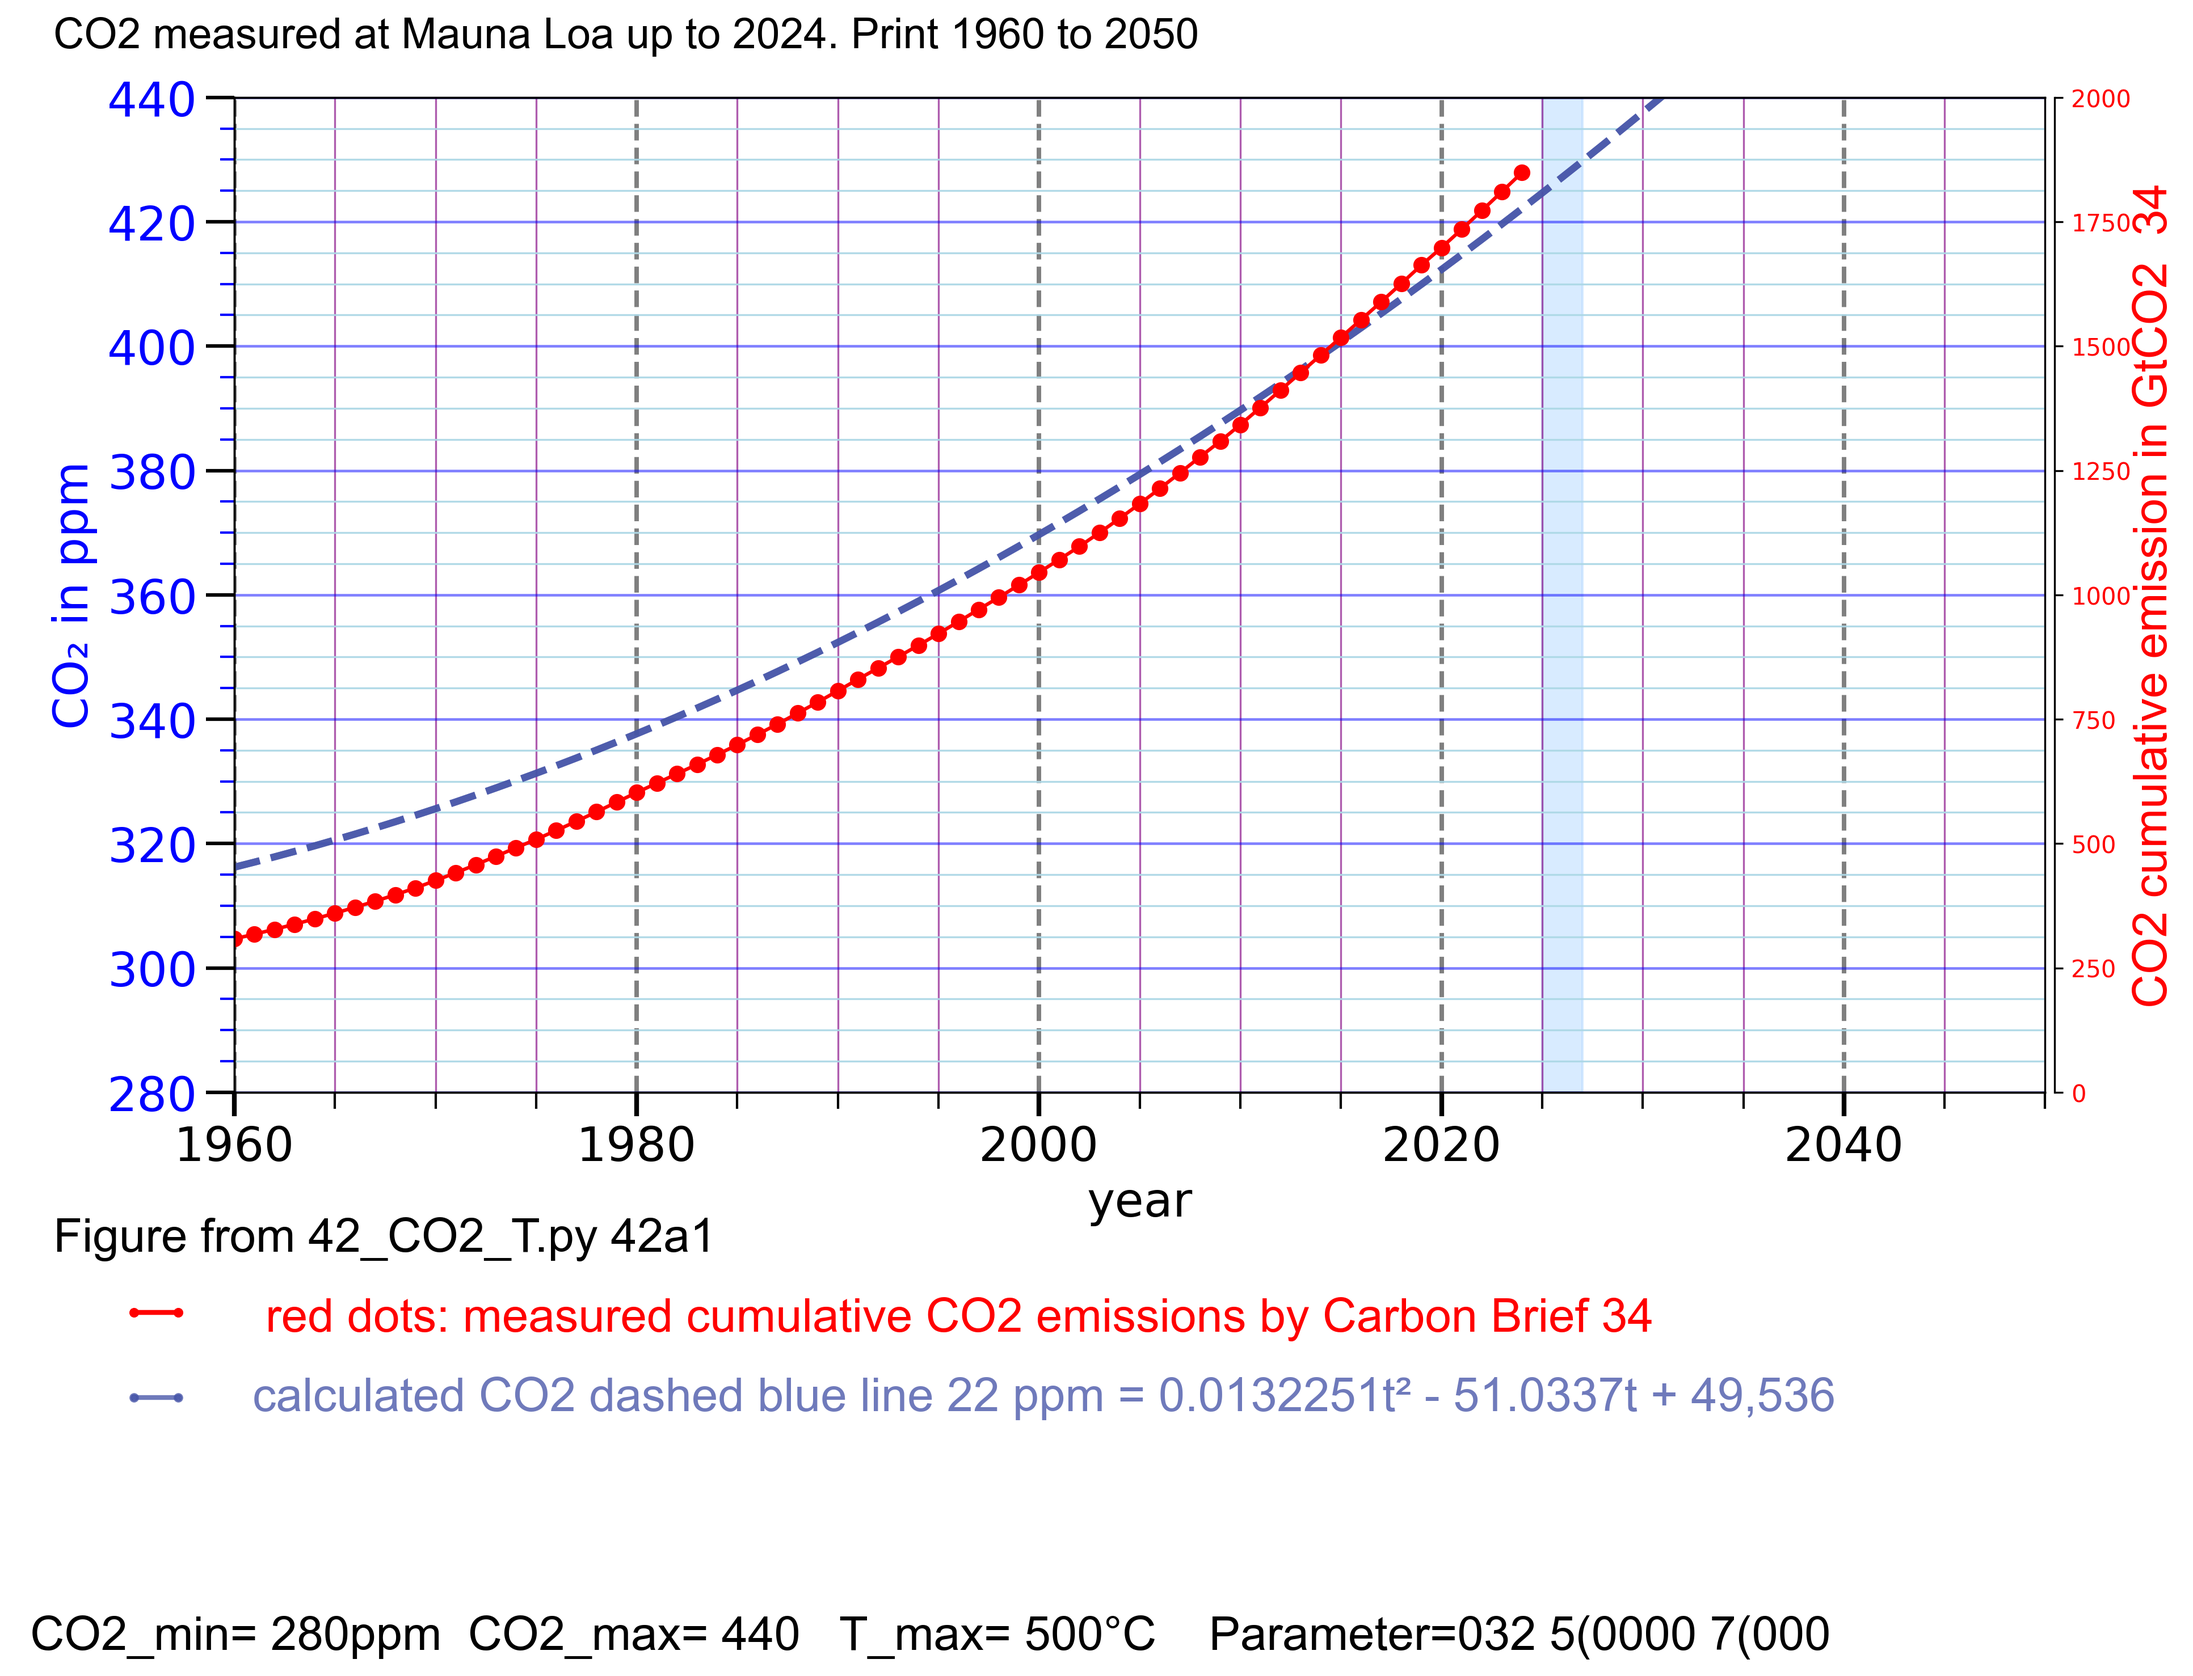
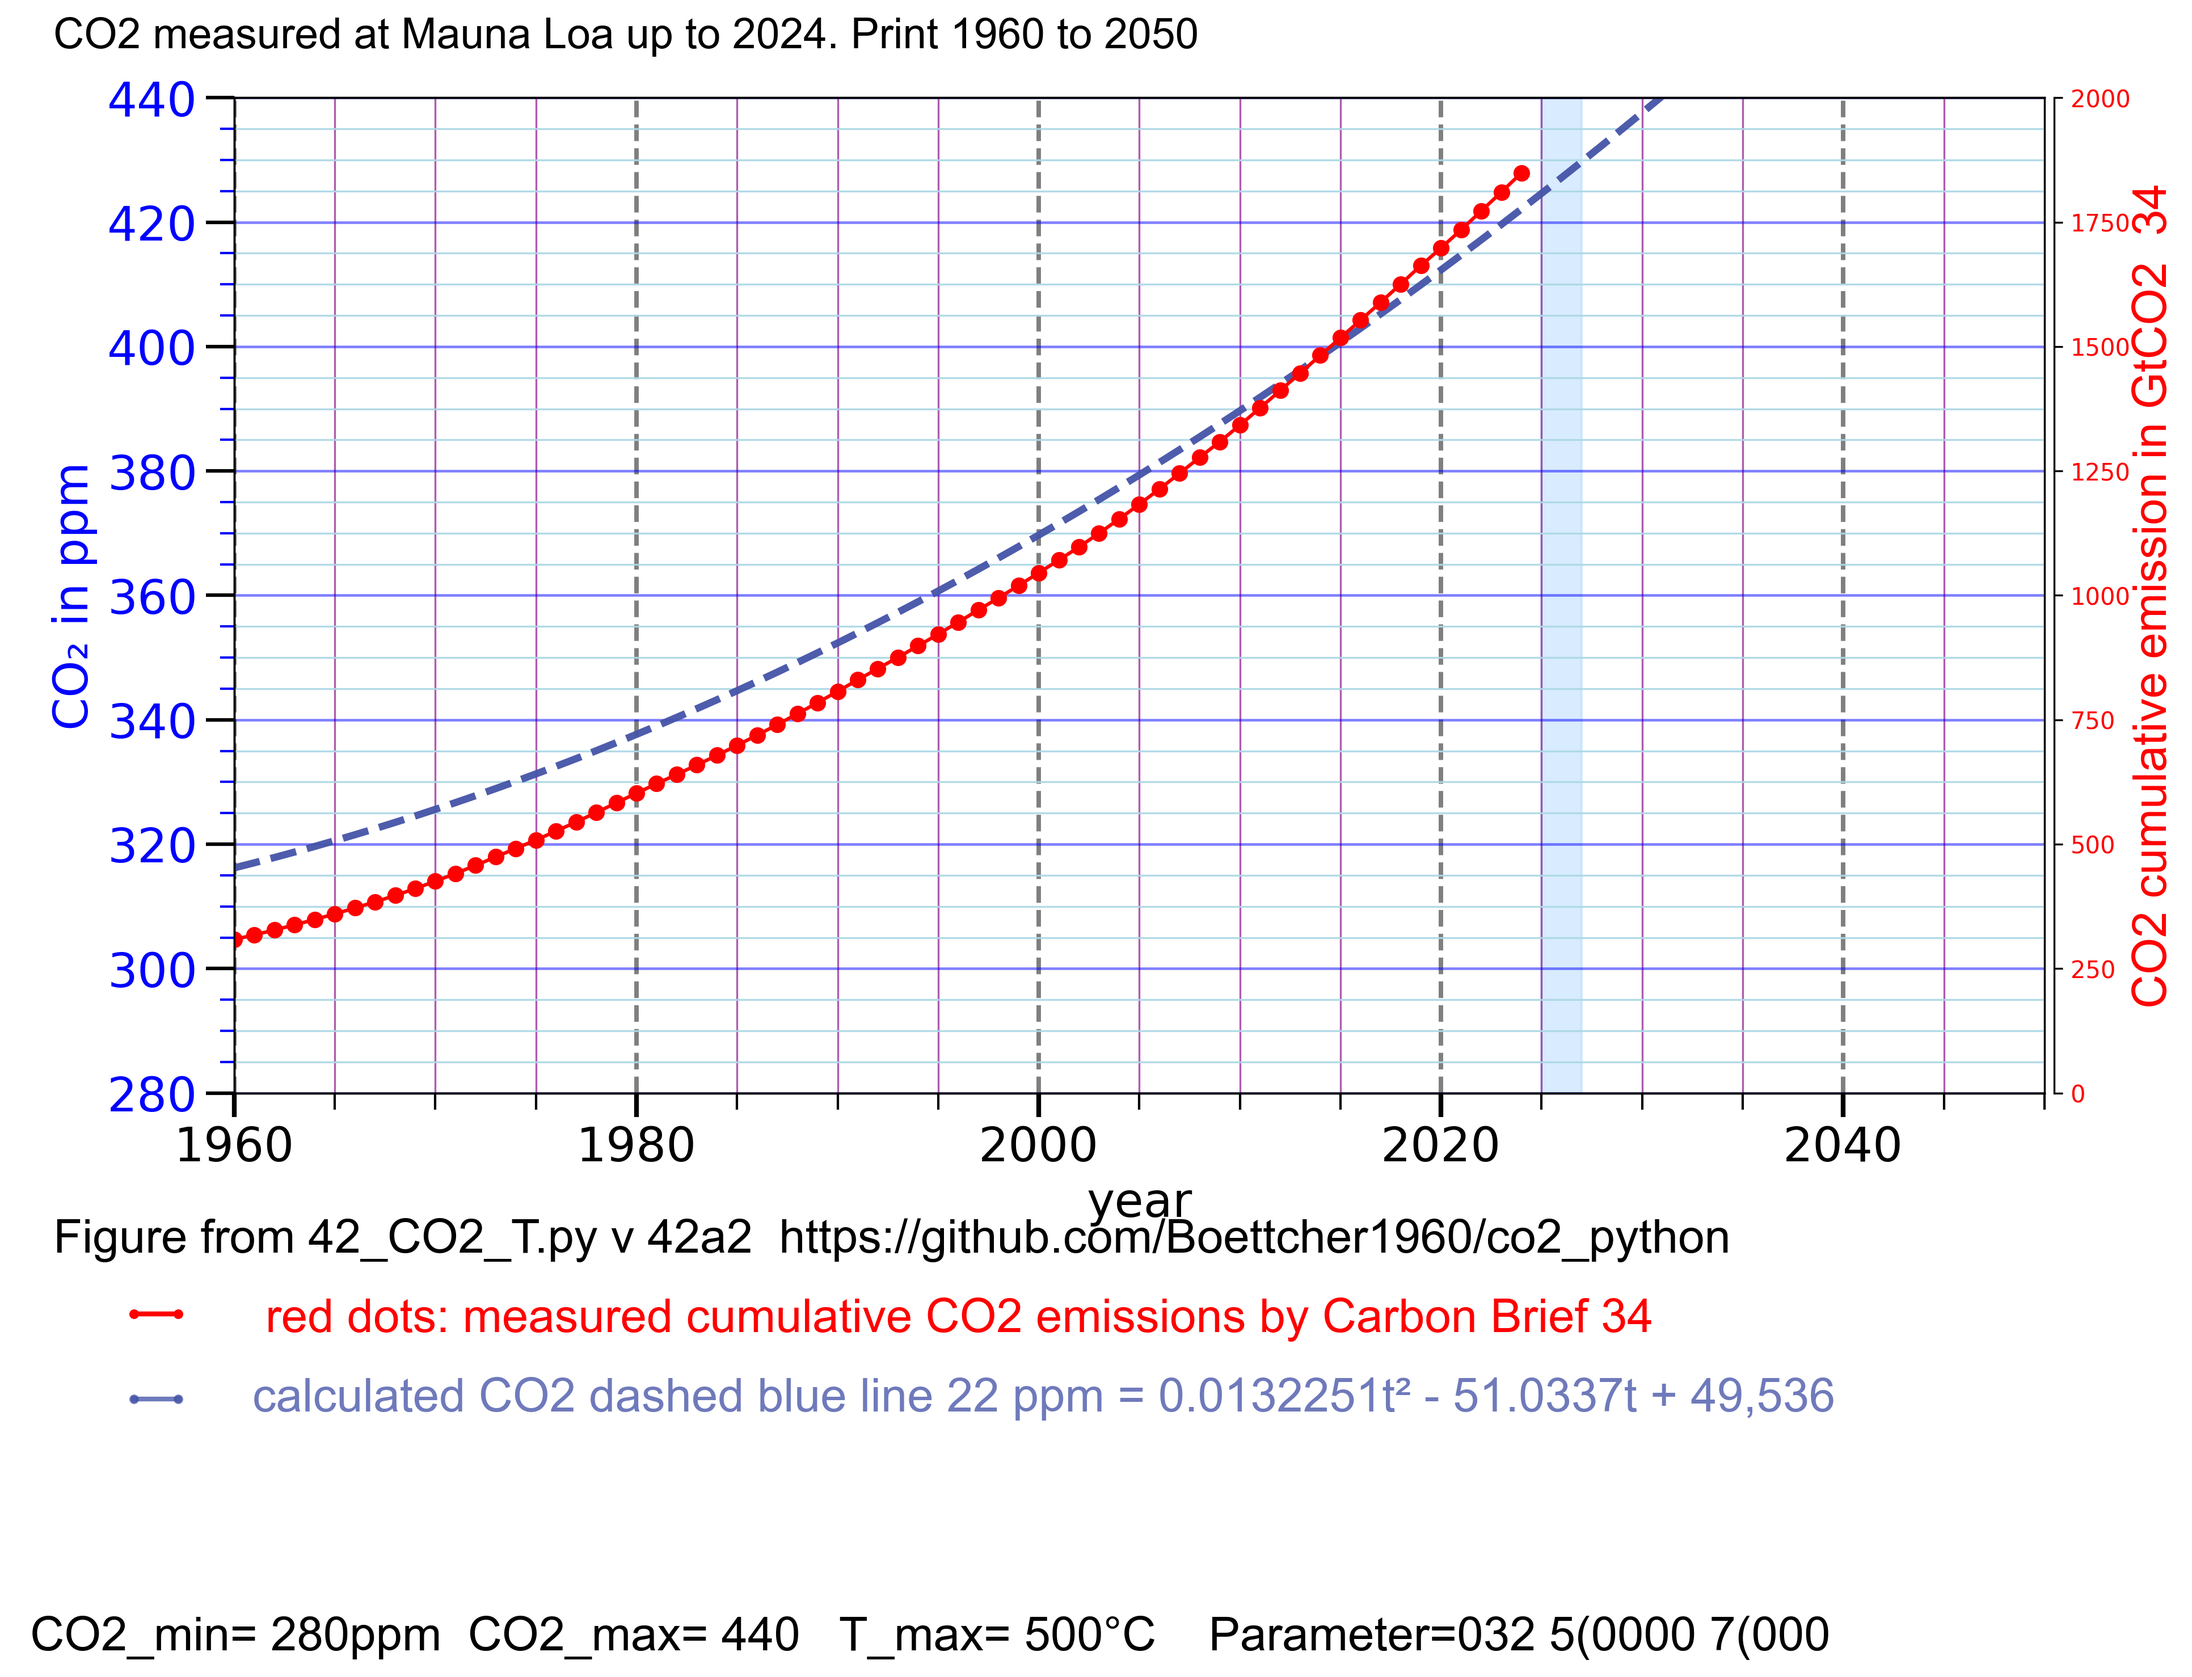
v = "42a2"

diff --git a/42_CO2_T.py b/42_CO2_T.py
@@ -1,5 +1,5 @@
 # 42a1_CO2_T.py ok co2_cumul.csv
-v = " 42a1"
+v = "42a2"
 # https://ourworldindata.org/grapher/cumulative-co-emissions
 # Thomas Boettcher
 # part 1 configure 
@@ -712,7 +712,9 @@ text_below1 = ""
 # text_below1 = text_below1 + header_parameter
 text_below1 = text_below1 + "Figure from "
 text_below1 = text_below1 + filename
+text_below1 = text_below1 + " v "
 text_below1 = text_below1 + v
+text_below1 = text_below1 + "  https://github.com/Boettcher1960/co2_python"
 plt.text(-0.1, tr1y, text_below1, color="black", fontname="Arial", fontsize=trs,
          transform=plt.gca().transAxes)
 
